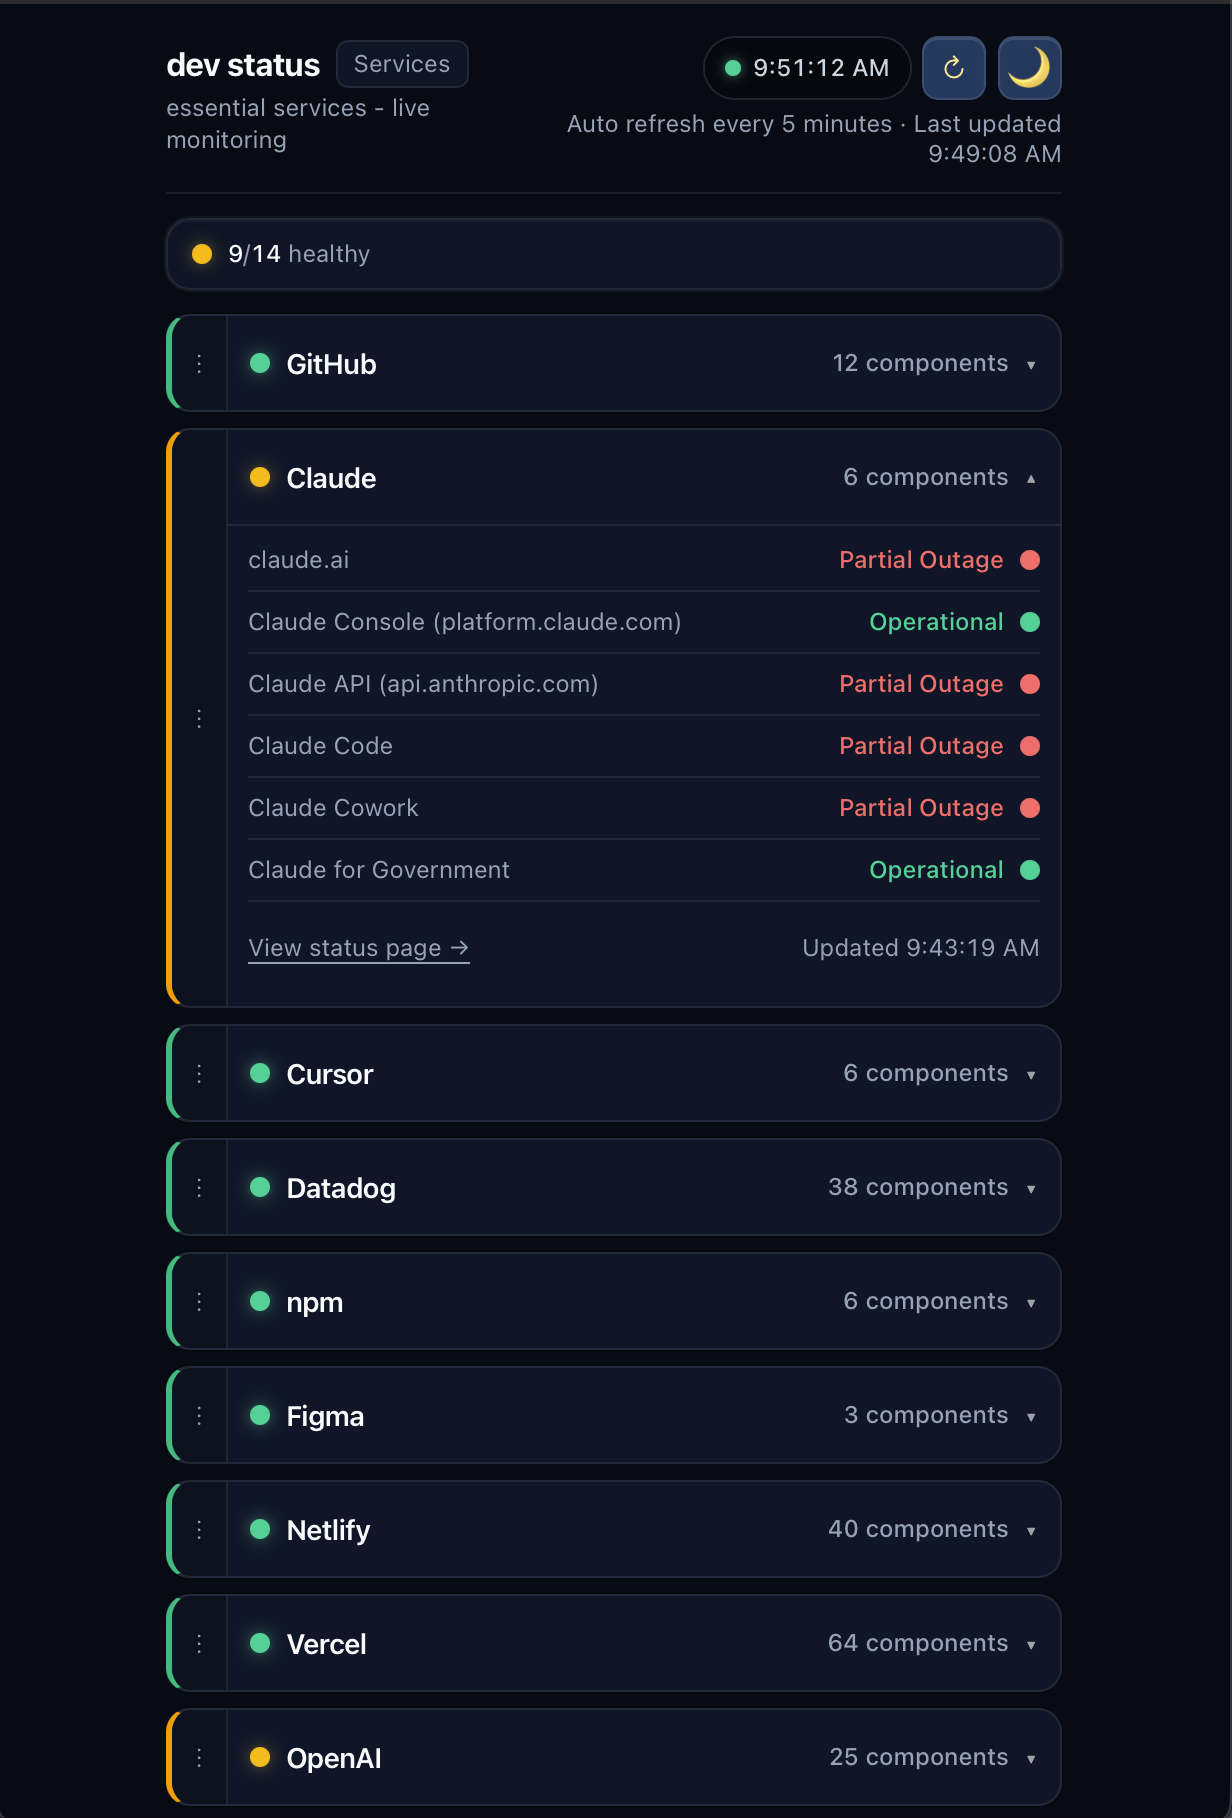
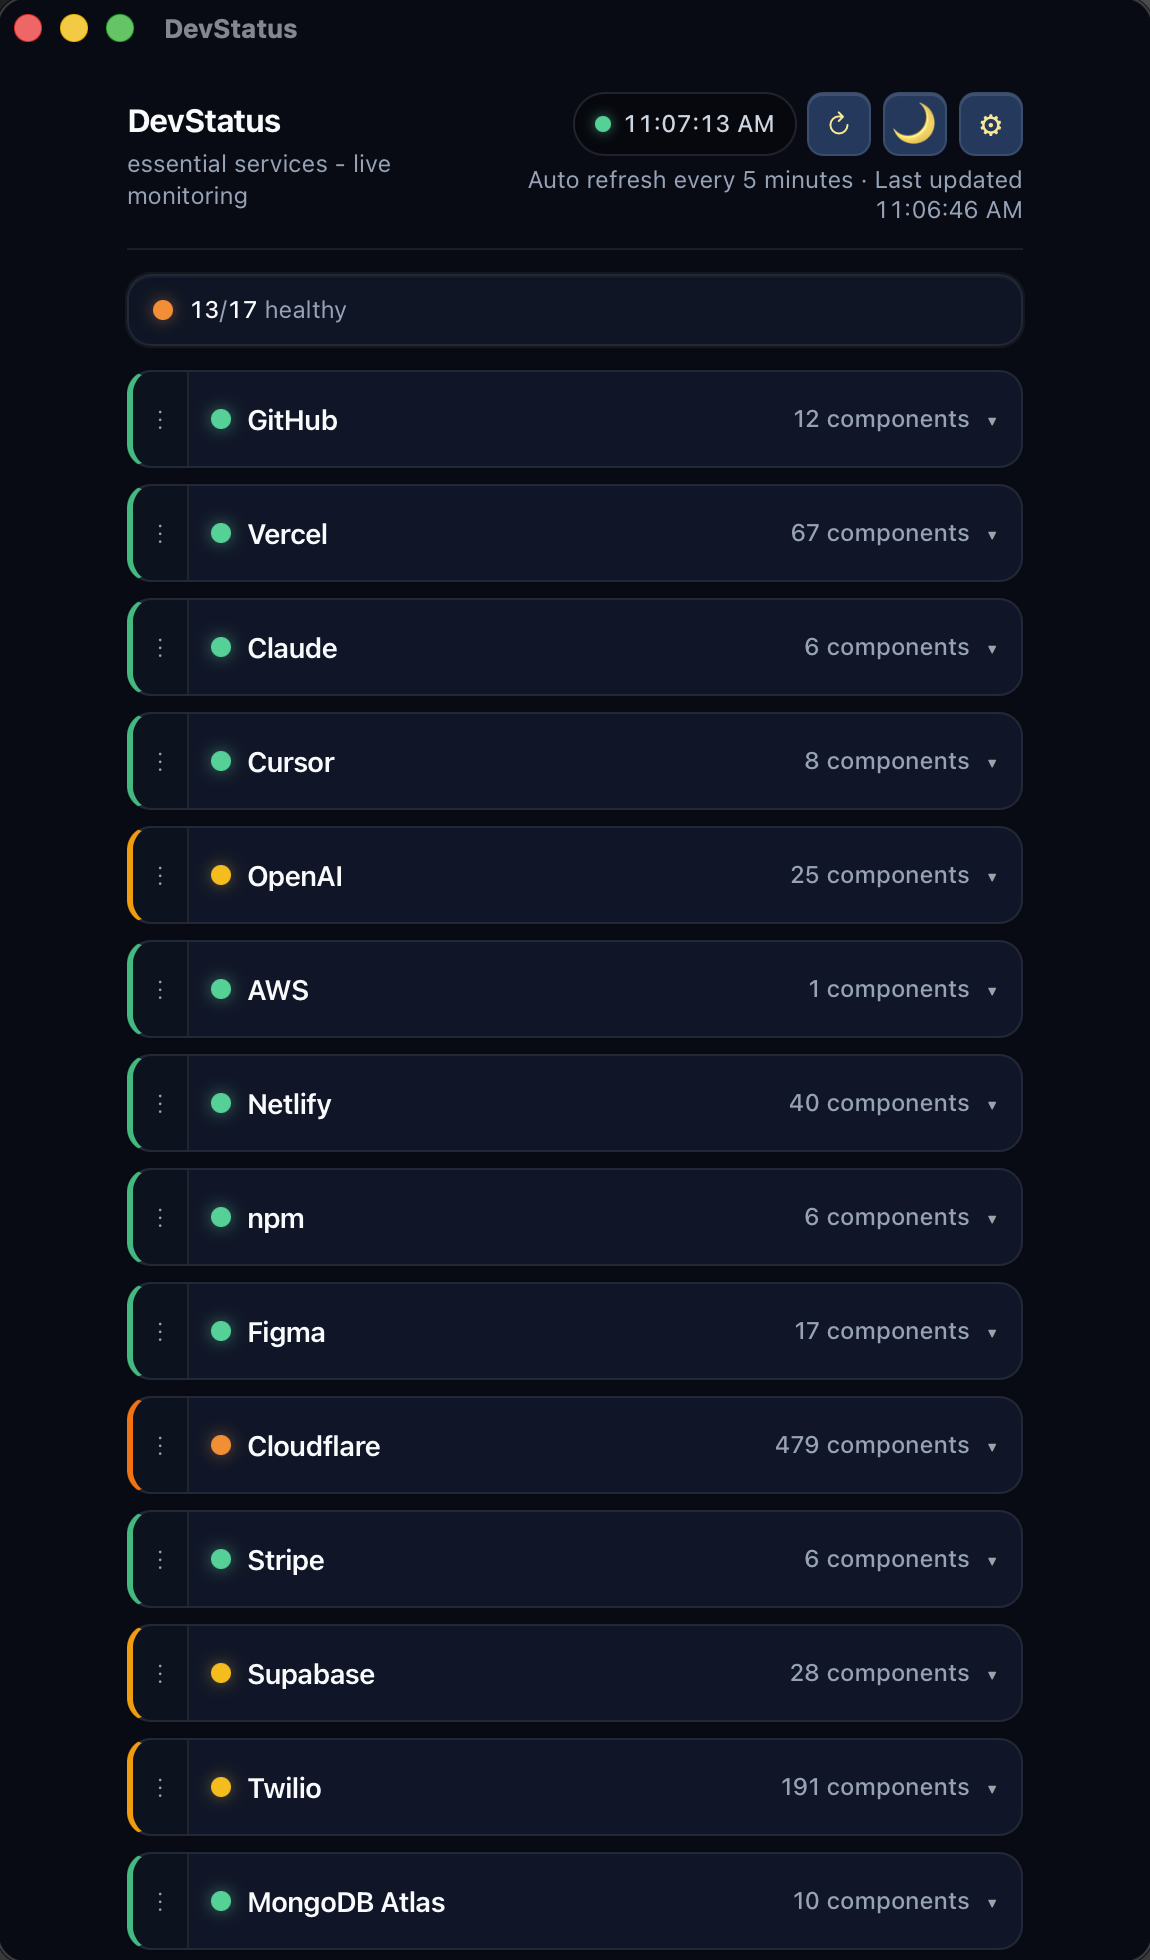
docs: refresh README screenshots (#4)
* docs: refresh README screenshots for the dock-only app

* docs: format README table

---------

diff --git a/README.md b/README.md
@@ -35,9 +35,9 @@
 
 ## Screenshots
 
-| Dashboard                                                                                                                | Services                                                                                     |
-| ------------------------------------------------------------------------------------------------------------------------ | -------------------------------------------------------------------------------------------- |
-| ![Dashboard showing service health cards with component-level detail expanded for Claude](docs/screenshot-dashboard.png) | ![Services settings screen with per-feed toggles and API URLs](docs/screenshot-services.png) |
+| Dashboard                                                                                                             | Services                                                                                     |
+| --------------------------------------------------------------------------------------------------------------------- | -------------------------------------------------------------------------------------------- |
+| ![Dashboard showing a 13/17 healthy summary and a collapsible health card per service](docs/screenshot-dashboard.png) | ![Services settings screen with per-feed toggles and API URLs](docs/screenshot-services.png) |
 
 The **dashboard** shows a live health summary across all enabled services. Each card displays the overall status and component count; clicking expands it to show individual components with their current status (Operational, Partial Outage, Major Outage, etc.). The header shows the auto-refresh interval and time of last update.
 
